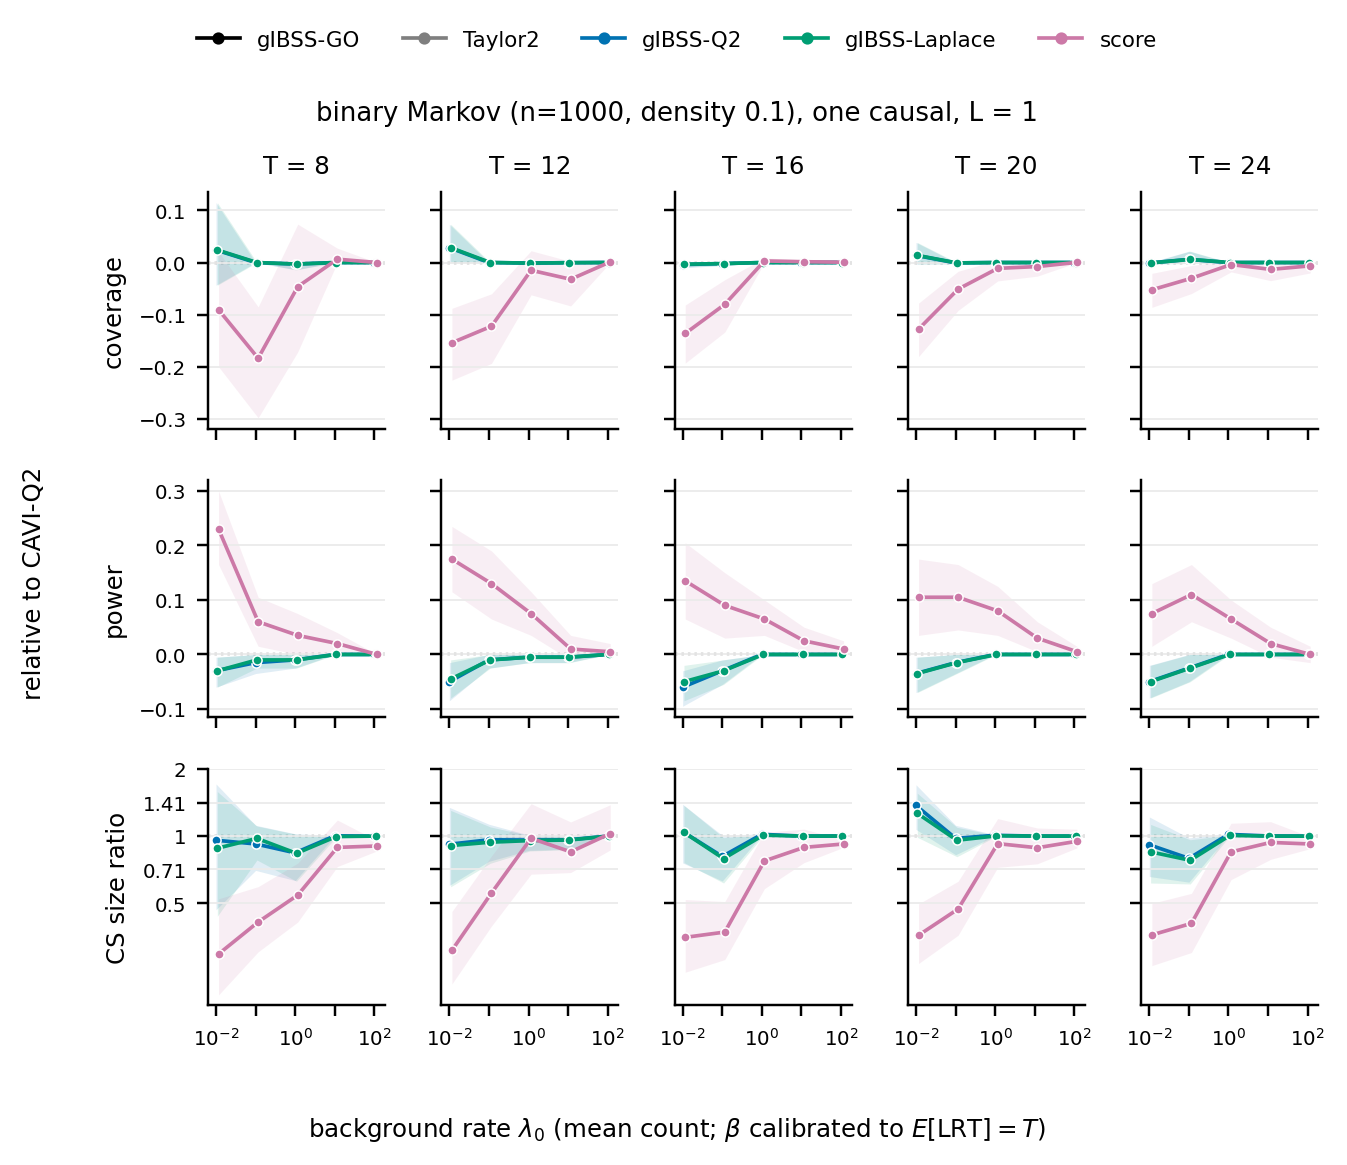
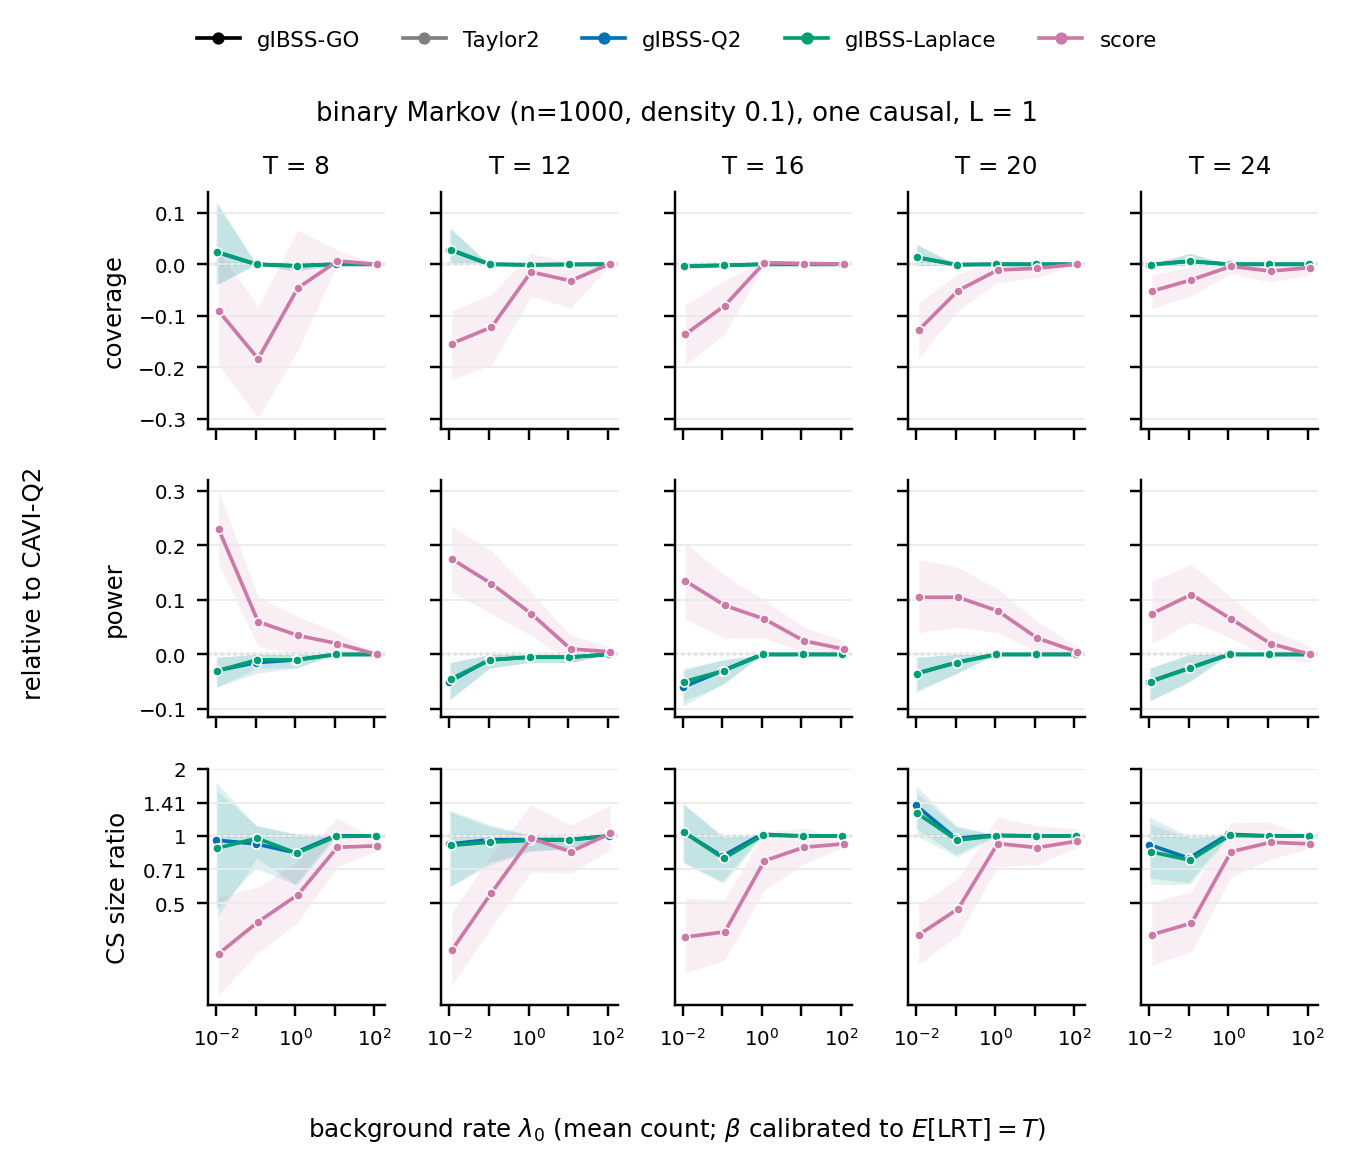
feat(twogroup): rate.qmd vs-CAVI strips - arm as tinted band, colour = lambda0, drop medians

diff --git a/twogroup_experiments/analysis/poisson_susie_simulations/rate_cs.py b/twogroup_experiments/analysis/poisson_susie_simulations/rate_cs.py
@@ -338,9 +338,11 @@ def _log_axis(ax):
 def vs_cavi_figure(sf: pl.DataFrame, seed: int = 0):
     """All designs pooled. For each L (5, then 1) two columns: CAVI-Q2's own coverage, power,
     mean CS size and declared CSs per fit per scenario, then each arm minus CAVI-Q2 (size: over).
-    One point per scenario; colour = arm, marker = design. Within each arm, scenarios sit left to
-    right by lambda0 (jittered), with a bar at each rate's median. CAVI columns share y per row,
-    as do the arm columns (the analog of truth.vs_cavi_figure for 022-024)."""
+    One point per scenario; tinted band and tick label = arm, marker = design, colour = lambda0.
+    Within each band, scenarios sit left to right by lambda0 (jittered). CAVI columns share y per
+    row, as do the arm columns (the analog of truth.vs_cavi_figure for 022-024)."""
+    from matplotlib.colors import to_rgba
+    from matplotlib.lines import Line2D
     rng = np.random.default_rng(seed)
     ms_by_L = {L: [m for m in ARMS if m in set(sf.filter(pl.col("L") == L)["method"].unique().to_list())]
                for L in (5, 1)}
@@ -348,30 +350,32 @@ def vs_cavi_figure(sf: pl.DataFrame, seed: int = 0):
     widths = []
     for L in Ls:
         widths += [1.25, len(ms_by_L[L]) + 0.6]
-    fig, axes = plt.subplots(len(_REL), 2 * len(Ls), figsize=(6.5, 1.7 * len(_REL) + 1.4),
+    fig, axes = plt.subplots(len(_REL), 2 * len(Ls), figsize=(6.5, 1.7 * len(_REL) + 1.5),
                              squeeze=False, layout="constrained", gridspec_kw={"width_ratios": widths})
     for i in range(len(_REL)):
         for c in range(2, 2 * len(Ls)):
             axes[i, c].sharey(axes[i, c % 2])
     lams = sorted(sf["lambda0"].unique().to_list())
-    offs = dict(zip(lams, np.linspace(-0.34, 0.34, len(lams))))
-    half = 0.34 / max(len(lams) - 1, 1)                 # half the spacing between rate slots
+    offs = dict(zip(lams, np.linspace(-0.32, 0.32, len(lams))))
+    half = 0.32 / max(len(lams) - 1, 1)                 # half the spacing between rate slots
+    lam_color = dict(zip(lams, plt.get_cmap("viridis")(np.linspace(0.0, 0.85, len(lams)))))
 
-    def strip(ax, x, df, c, color):
+    def band(ax, x, color):
+        ax.axvspan(x - 0.45, x + 0.45, color=to_rgba(color, 0.10), lw=0, zorder=0)
+
+    def strip(ax, x, df, c):
         for lam in lams:
             g = df.filter(pl.col("lambda0") == lam)
-            ys = []
             for d in DESIGN_ORDER:
                 y = g.filter(pl.col("design") == d)[c].drop_nulls().to_numpy().astype(float)
                 y = y[np.isfinite(y)]
-                ys.append(y)
-                ax.scatter(x + offs[lam] + rng.uniform(-0.45, 0.45, y.size) * half, y, s=7,
-                           marker=DESIGN_MARKER[d], facecolor="none", edgecolor=color, linewidth=0.5,
-                           alpha=0.7, zorder=2)
-            y = np.concatenate(ys)
-            if y.size:
-                ax.plot([x + offs[lam] - 0.8 * half, x + offs[lam] + 0.8 * half], [np.median(y)] * 2,
-                        color=color, lw=1.6, solid_capstyle="butt", zorder=3)
+                ax.scatter(x + offs[lam] + rng.uniform(-0.45, 0.45, y.size) * half, y, s=8,
+                           marker=DESIGN_MARKER[d], facecolor="none", edgecolor=lam_color[lam],
+                           linewidth=0.6, alpha=0.85, zorder=2)
+
+    def color_ticks(ax, colors):
+        for t, col in zip(ax.get_xticklabels(), colors):
+            t.set_color(col)
 
     ref = sf.unique(subset=SCEN, keep="first")   # one row per scenario carries CAVI-Q2's values
     last = len(_REL) - 1
@@ -380,26 +384,30 @@ def vs_cavi_figure(sf: pl.DataFrame, seed: int = 0):
         dref, d_L, ms = ref.filter(pl.col("L") == L), sf.filter(pl.col("L") == L), ms_by_L[L]
         for i, ((acol, alabel, alog), (rcol, rlabel, ratio)) in enumerate(zip(_ABS, _REL)):
             ax = axes[i, ca]
-            strip(ax, 0, dref, f"{acol}_cavi", CAVI_COLOR)
+            band(ax, 0, CAVI_COLOR)
+            strip(ax, 0, dref, f"{acol}_cavi")
             if alog and b == 0:
                 _log_axis(ax)
             if acol == "coverage":
-                ax.axhline(0.95, color="0.5", lw=0.7, ls="--", zorder=0)
-            ax.set_xlim(-0.55, 0.55)
+                ax.axhline(0.95, color="0.5", lw=0.7, ls="--", zorder=1)
+            ax.set_xlim(-0.5, 0.5)
             ax.set_xticks([0])
             ax.set_xticklabels(["CAVI-Q2"] if i == last else [], rotation=60, ha="right", fontsize=6.5)
+            color_ticks(ax, [CAVI_COLOR])
             if i == 0:
                 ax.set_title("CAVI-Q2", fontsize=7.5, color=CAVI_COLOR)
             ax = axes[i, cr]
-            ax.axhline(1.0 if ratio else 0.0, color="0.5", lw=0.7, ls="--", zorder=0)
+            ax.axhline(1.0 if ratio else 0.0, color="0.5", lw=0.7, ls="--", zorder=1)
             for k, m in enumerate(ms):
-                strip(ax, k, d_L.filter(pl.col("method") == m), rcol, COLOR[m])
+                band(ax, k, COLOR[m])
+                strip(ax, k, d_L.filter(pl.col("method") == m), rcol)
             if ratio and b == 0:
                 _log_axis(ax)
-            ax.set_xlim(-0.6, len(ms) - 0.4)
+            ax.set_xlim(-0.5, len(ms) - 0.5)
             ax.set_xticks(range(len(ms)))
             ax.set_xticklabels([LABEL[m] for m in ms] if i == last else [], rotation=60, ha="right",
                                fontsize=6.5)
+            color_ticks(ax, [COLOR[m] for m in ms])
             if i == 0:
                 ax.set_title(f"L = {L}: arm vs CAVI-Q2", fontsize=7.5)
             for a_, lab in ((axes[i, ca], alabel), (axes[i, cr], rlabel)):
@@ -407,10 +415,10 @@ def vs_cavi_figure(sf: pl.DataFrame, seed: int = 0):
                 a_.tick_params(labelsize=6.5, labelleft=True)
                 if b == 0:
                     a_.set_ylabel(lab, fontsize=7.5)
-    from matplotlib.lines import Line2D
     h = [Line2D([], [], color="0.3", marker=DESIGN_MARKER[d], mfc="none", ls="", ms=5, label=DESIGN_LABEL[d])
          for d in DESIGN_ORDER]
-    h.append(Line2D([], [], color="0.3", lw=1.6,
-                    label=r"median per $\lambda_0$; left to right $\lambda_0$ = " + ", ".join(f"{v:g}" for v in lams)))
-    fig.legend(handles=h, loc="outside upper center", ncol=4, fontsize=7, frameon=False)
+    h += [Line2D([], [], color=lam_color[v], marker="o", ls="", ms=5, label=rf"$\lambda_0$ = {v:g}")
+          for v in lams]
+    fig.legend(handles=h, loc="outside upper center", ncol=len(h), fontsize=6.5, frameon=False,
+               handletextpad=0.2, columnspacing=0.9)
     return fig
